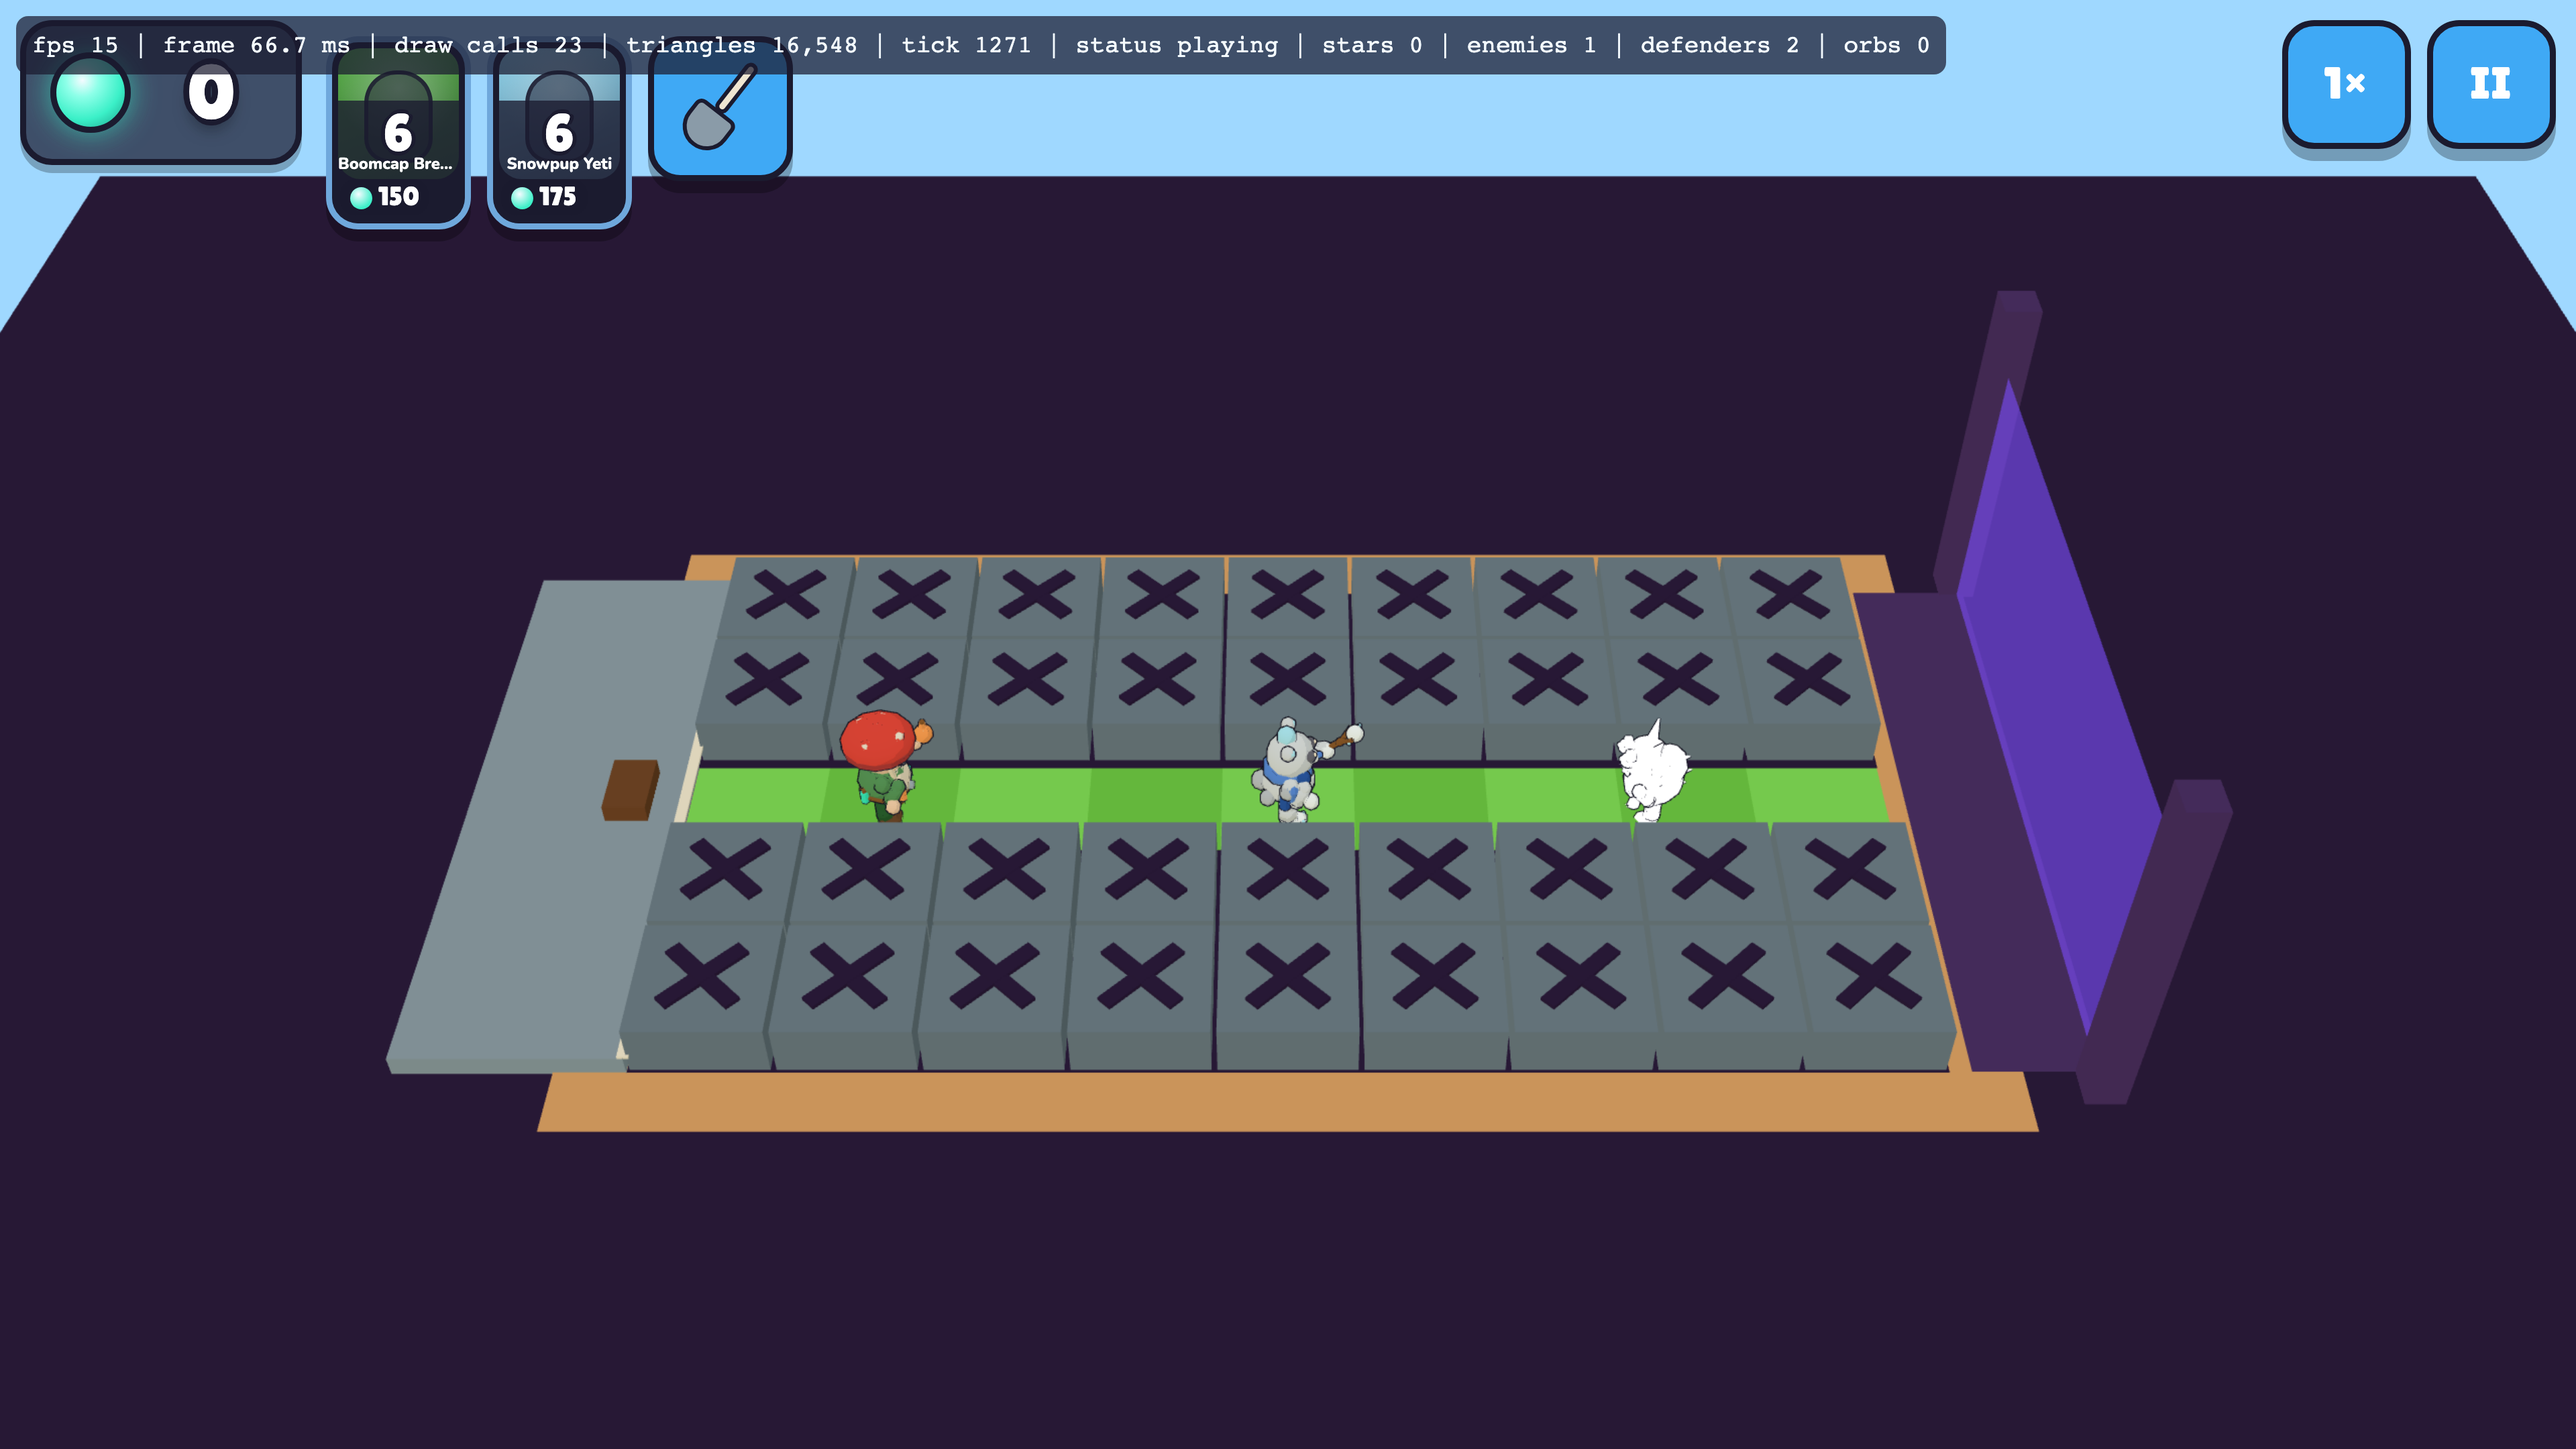
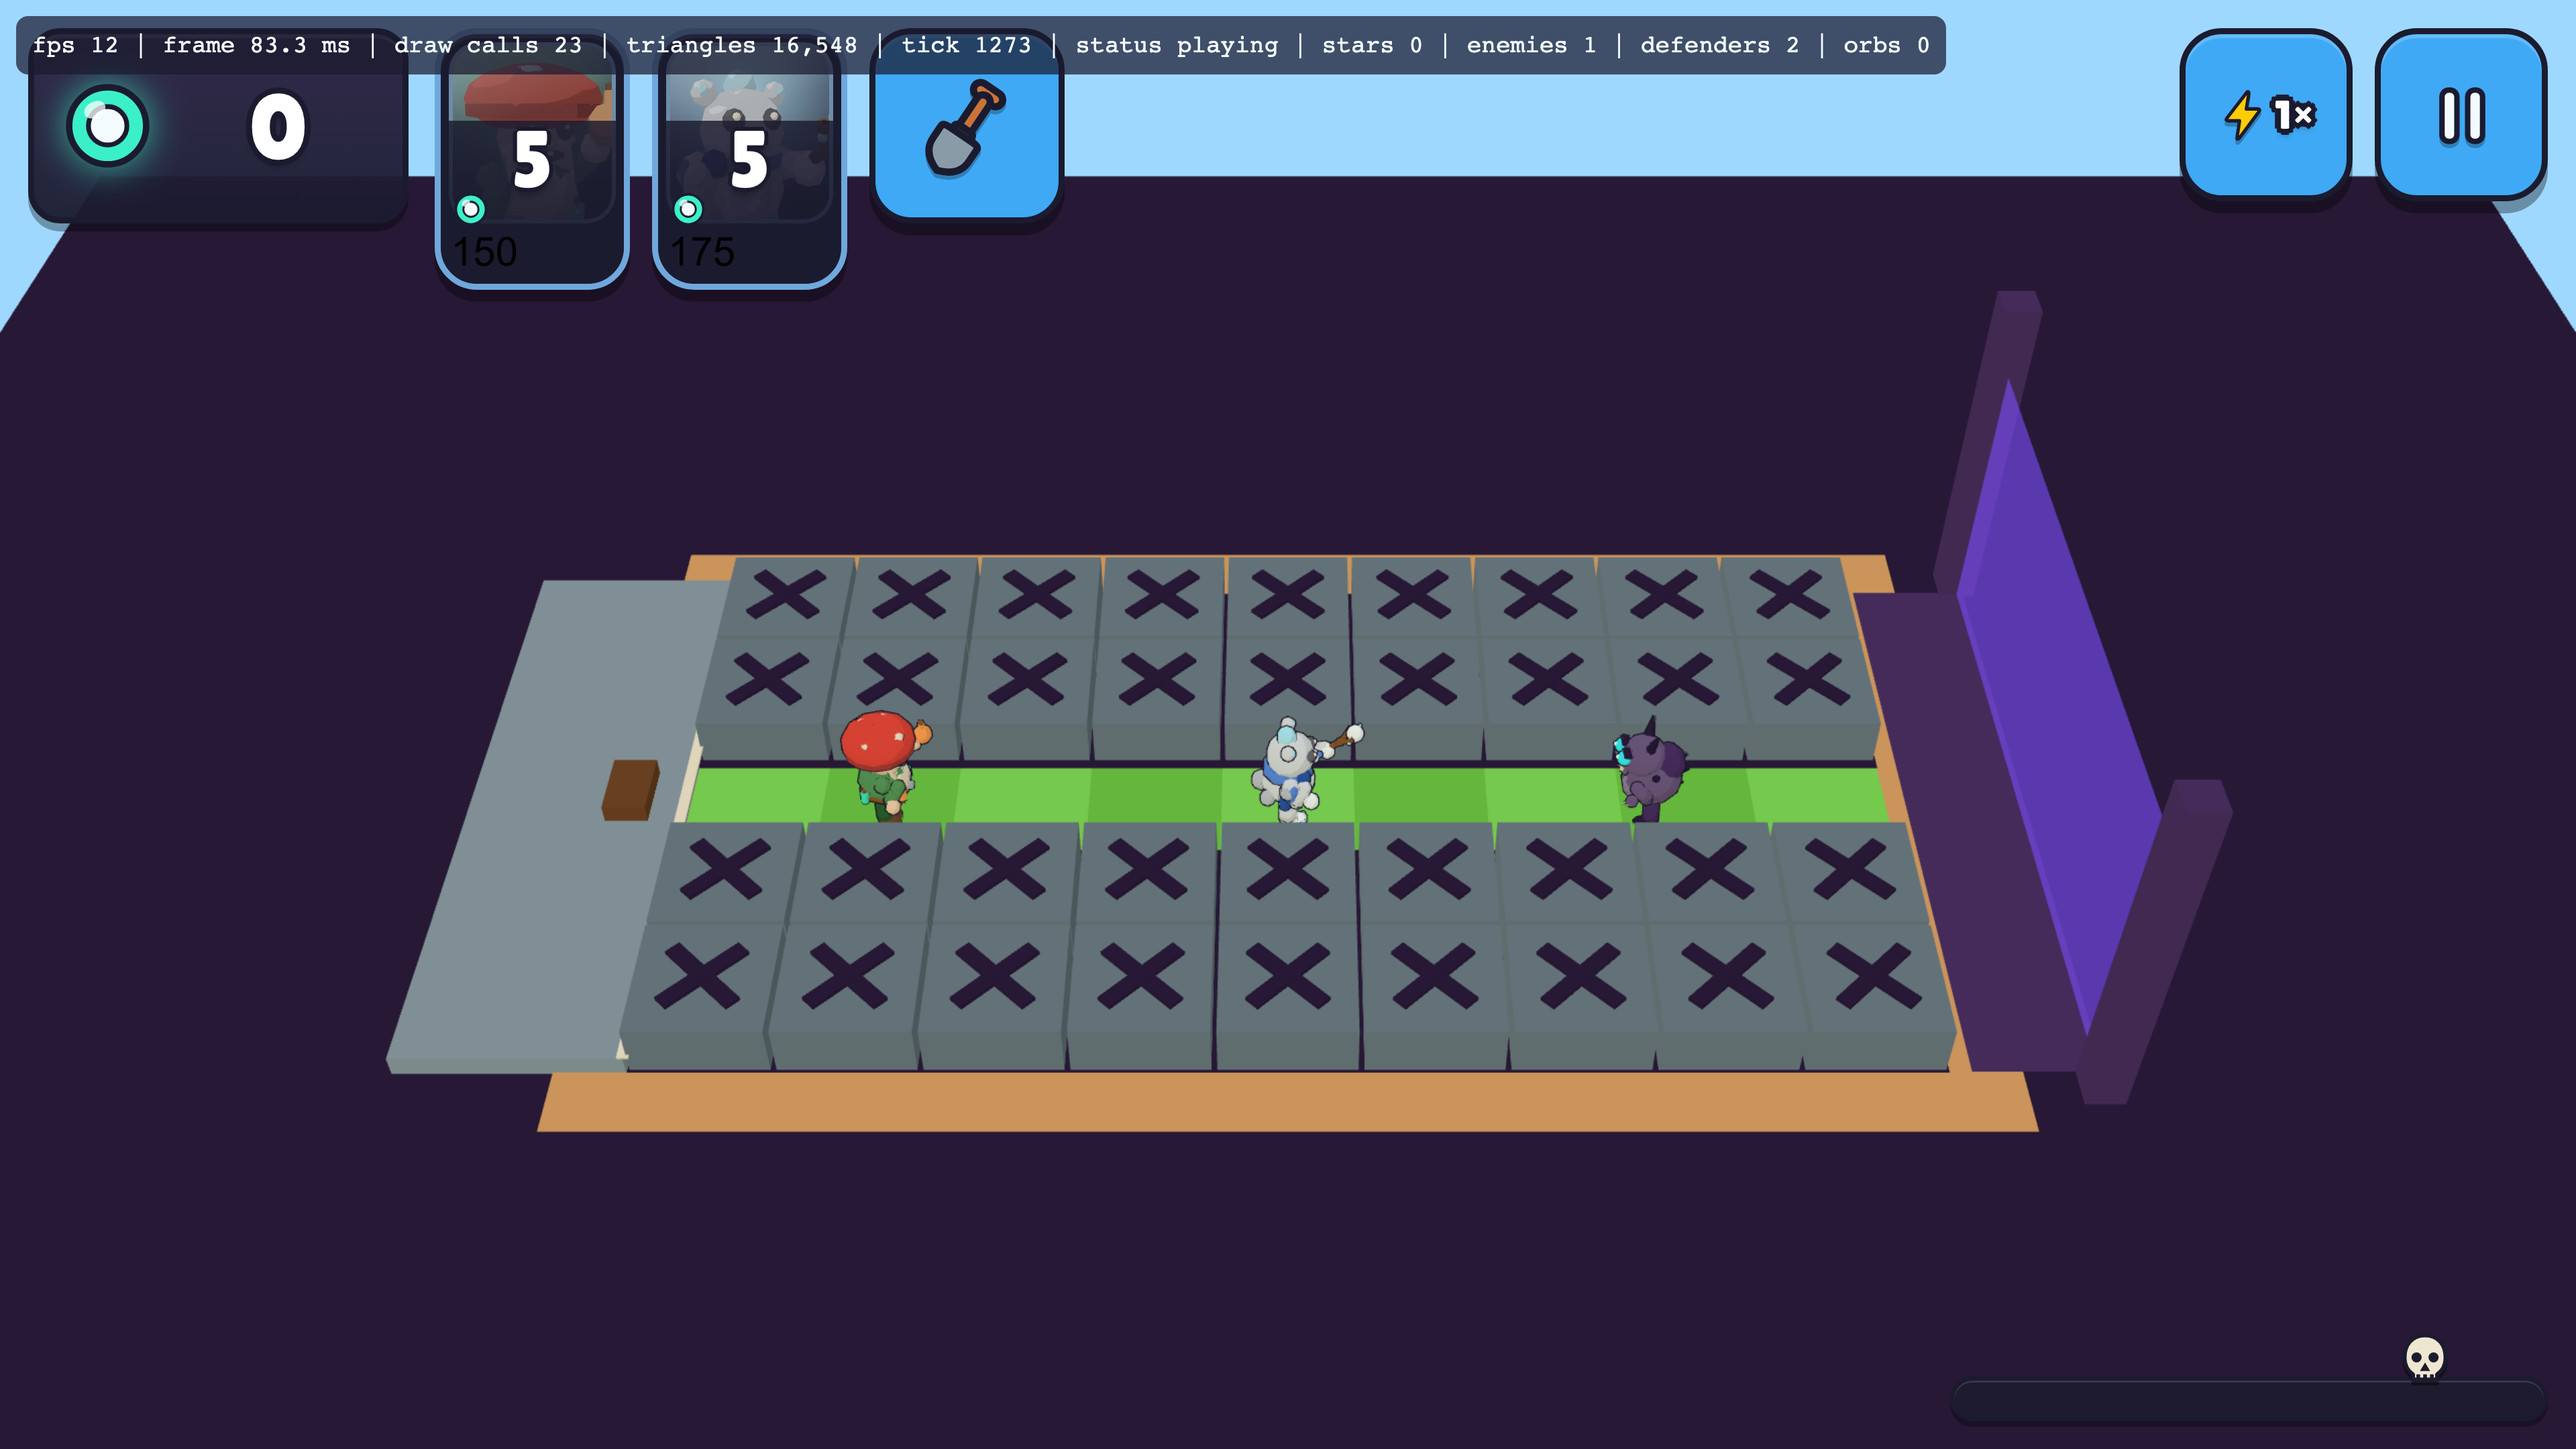
test(e2e): screenshot the Boomcap Brewer and Snowpup Yeti in W1-L01
Issue #67: the debug URL places both defenders at lane 2 (tick 1200 has
collected enough sky drops for their 150 + 175 cost), waits for all five
committed models, asserts the two new ids load with their 3-clip sets and the
overlay shows 2 defenders, then screenshots 844x390 and 1280x720. The pilot
test now checks clip counts per model id, so later roster models do not break it.

diff --git a/tests/e2e/modelsDefenders.spec.ts b/tests/e2e/modelsDefenders.spec.ts
@@ -1,0 +1,73 @@
+import { expect, test } from '@playwright/test';
+
+// Issue #67: the Boomcap Brewer and Snowpup Yeti models render in the real game.
+// W1-L01 at tick 1200 has collected five sky drops (150 + 5 * 35 = 325 Essence), so the
+// debug URL can place both defenders (150 + 175) at tick 0 and show them in the lane.
+
+const DEFENDER_URL =
+  '/?level=w1-l01&seed=10001&tick=1200&perf=1' +
+  '&cards=boomcap_brewer,snowpup_yeti' +
+  '&place=boomcap_brewer:2,1;snowpup_yeti:2,4' +
+  '&autocollect=1';
+
+const MODEL_IDS = [
+  'glowshroom_monk',
+  'sparkbolt_gremlin',
+  'gloomling',
+  'boomcap_brewer',
+  'snowpup_yeti',
+];
+
+test('defender models: Boomcap Brewer and Snowpup Yeti render in W1-L01', async ({ page }) => {
+  const consoleErrors: string[] = [];
+  const pageErrors: string[] = [];
+  const modelLogs: string[] = [];
+  page.on('console', (message) => {
+    if (message.type() === 'error') {
+      consoleErrors.push(message.text());
+    }
+    if (message.type() === 'log' && message.text().startsWith('models: loaded')) {
+      modelLogs.push(message.text());
+    }
+  });
+  page.on('pageerror', (error) => {
+    pageErrors.push(error.message);
+  });
+
+  const modelResponses = MODEL_IDS.map((id) =>
+    page.waitForResponse((response) => response.url().endsWith(`/models/${id}.glb`)),
+  );
+  await page.goto(DEFENDER_URL);
+  await Promise.all(modelResponses);
+
+  const canvas = page.locator('#app canvas');
+  await expect(canvas).toBeVisible();
+  await expect(page.locator('.hud-card')).toHaveCount(2);
+  await expect(page.getByRole('status', { name: /Essence/ })).toBeVisible({ timeout: 5000 });
+  await page.waitForTimeout(900);
+
+  // Both new models loaded with their spec 12.5 clip set (idle + attack + victory).
+  const clipCounts = new Map<string, number>();
+  for (const log of modelLogs) {
+    const match = /models: loaded (\S+) \((\d+) clips\)/.exec(log);
+    if (match !== null) {
+      clipCounts.set(match[1] ?? '', Number(match[2]));
+    }
+  }
+  expect(clipCounts.get('boomcap_brewer')).toBe(3);
+  expect(clipCounts.get('snowpup_yeti')).toBe(3);
+
+  const overlay = page.locator('#debug-overlay');
+  await expect(overlay).toContainText(/defenders 2/);
+  await expect(overlay).toContainText(/enemies [1-9]\d*/);
+  const stats = (await overlay.textContent()) ?? '';
+  console.log(`DEFENDER_MODELS_STATS ${stats.replace(/\s+/g, ' ').trim()}`);
+
+  await page.screenshot({ path: 'test-results/screens/m3-defenders-boomcap-snowpup-844x390.png' });
+  await page.setViewportSize({ width: 1280, height: 720 });
+  await page.waitForTimeout(500);
+  await page.screenshot({ path: 'test-results/screens/m3-defenders-boomcap-snowpup-1280x720.png' });
+
+  expect(consoleErrors, 'browser console errors').toEqual([]);
+  expect(pageErrors, 'uncaught page errors').toEqual([]);
+});
